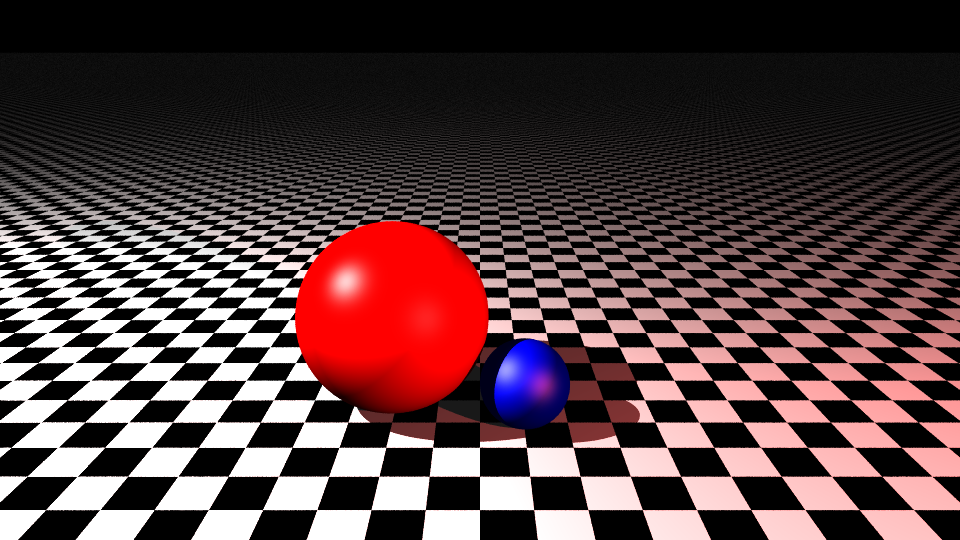
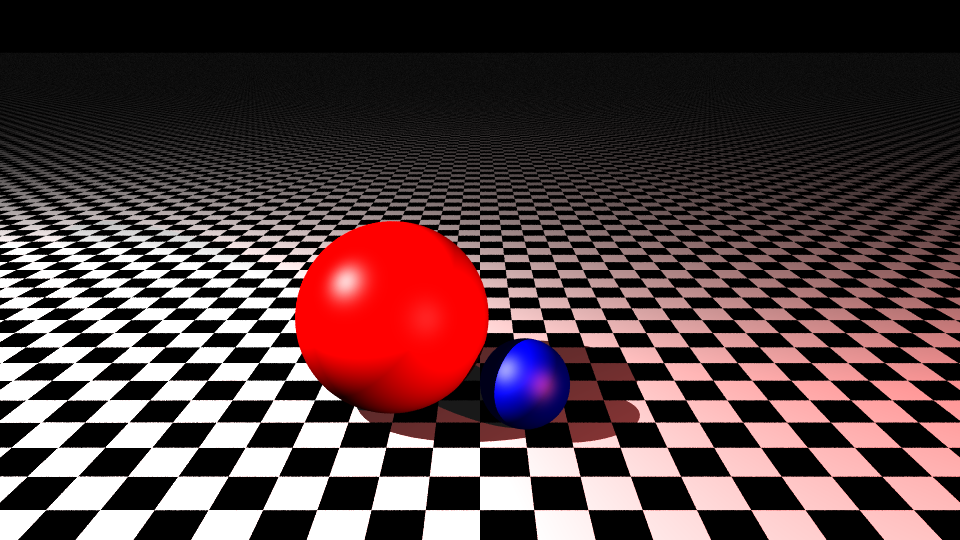
depth of field

diff --git a/comp557f25a4-provided/camera.py b/comp557f25a4-provided/camera.py
@@ -8,7 +8,7 @@ import taichi.math as tm
 
 @ti.data_oriented
 class Camera:
-	def __init__(self, width, height, eye_position:glm.vec3, lookat:glm.vec3, up:glm.vec3, fovy, jitter:bool=False, samples:int=1) -> None:
+	def __init__(self, width, height, eye_position:glm.vec3, lookat:glm.vec3, up:glm.vec3, fovy, jitter:bool=False, samples:int=1, aperture:float=0.0, focus_distance=None) -> None:
 		'''	Initialize the camera with given parameters.
 		Args:
 			width (int): width of the image in pixels
@@ -31,6 +31,9 @@ class Camera:
 		self.distance_to_plane = 1.0
 		self.jitter = jitter
 		self.samples = samples
+		self.aperture = aperture # lens radius for depth of field, 0 = pinhole
+		if focus_distance is None: focus_distance = glm.length(lookat - eye_position) # default focus on the lookAt point
+		self.focus_distance = focus_distance
 
 		# Objective 1: Compute camera frame basis vectors, and top bottom left right for ray generation
 		# NOTE: glm vectors are passed in to permit the work to be done here in python, but stored vectors must be tm.vec3
@@ -81,7 +84,13 @@ class Camera:
 
 		s = self.left + (self.right - self.left) * (x + offset_x) / self.width
 		t = self.bottom + (self.top - self.bottom) * (y + offset_y) / self.height
-		point = self.eye_position + s * self.u + t * self.v - self.w * self.distance_to_plane
-		d = tm.normalize(point - self.eye_position)
+		# image plane scaled to the focus distance, so all lens samples meet there
+		point = self.eye_position + self.focus_distance * (s * self.u + t * self.v - self.w * self.distance_to_plane)
+		origin = self.eye_position
+		if self.aperture > 0: # random point on the lens disk (polar, sqrt for uniform density)
+			r = self.aperture * ti.sqrt(ti.random())
+			theta = 2.0 * tm.pi * ti.random()
+			origin = self.eye_position + r * ti.cos(theta) * self.u + r * ti.sin(theta) * self.v
+		d = tm.normalize(point - origin)
 
-		return Ray( self.eye_position, d )  # temporary ray
+		return Ray( origin, d )  # temporary ray

diff --git a/comp557f25a4-provided/parser.py b/comp557f25a4-provided/parser.py
@@ -44,7 +44,9 @@ def load_scene(infile: str, image_scale_factor: float, scene: Scene):
     cam_lookat = glm.vec3(data["camera"]["lookAt"])
     cam_up = glm.vec3(data["camera"]["up"])
     cam_fovy = data["camera"]["fovy"]
-    camera = Camera(width, height, cam_pos, cam_lookat, cam_up, cam_fovy, jitter, samples)
+    cam_aperture = data["camera"].get("aperture", 0.0) # lens radius for depth of field
+    cam_focus = data["camera"].get("focus_distance", None) # defaults to distance to lookAt
+    camera = Camera(width, height, cam_pos, cam_lookat, cam_up, cam_fovy, jitter, samples, cam_aperture, cam_focus)
 
     # Loading ambient light
     ambient = tm.vec3(data.get("ambient", [0.1, 0.1, 0.1])) # set a reasonable default ambient light
